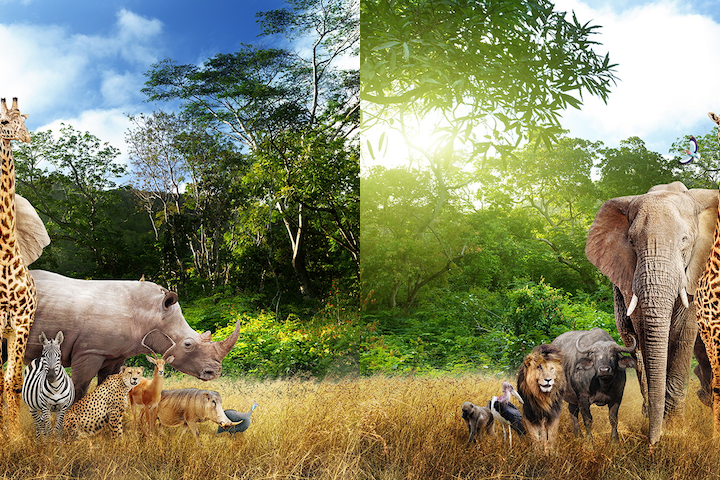
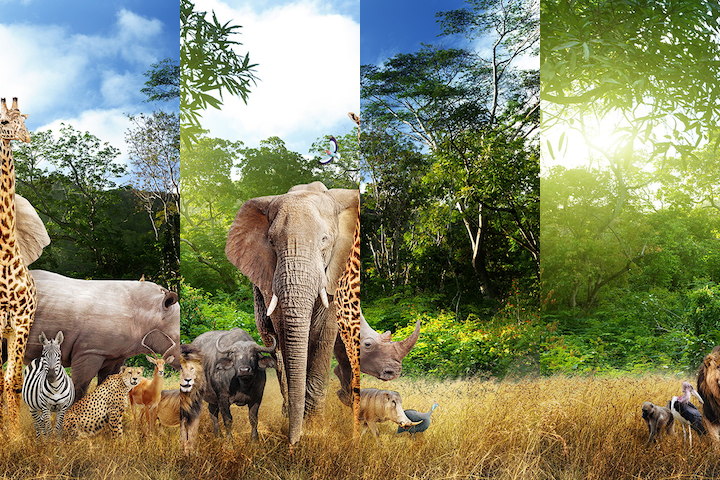
fatiador

diff --git a/9-fatiador/comparador.py b/9-fatiador/comparador.py
@@ -1,25 +1,82 @@
 import cv2
 import sys
+import numpy
 
 arquivo = sys.argv[1]
+tam = int(sys.argv[2])
+original = cv2.imread(arquivo, cv2.IMREAD_UNCHANGED)
 img = cv2.imread(arquivo, cv2.IMREAD_GRAYSCALE)
 
 largura = img.shape[1]
 altura = img.shape[0]
 
-meio = int(largura/2)
-dife, seme = 0, 0
+def eh_vizinho(f1, f2, ltr=True, threshold=80):
+  dife, seme = 0, 0
+  for i in range(altura):
+    if ltr:
+      p1 = f1[i, -1]
+      p2 = f2[i, 0]
+    else:
+      p1 = f1[i, 0]
+      p2 = f2[i, -1]
+    dif = abs(int(p1) - int(p2))
 
-print(meio, meio + 1)
-for i in range(altura):
-  p1 = img[i, meio - 1]
-  p2 = img[i, meio]
-  dif = abs(int(p1) - int(p2))
+    if dif > threshold:
+      dife += 1
+    else:
+      seme += 1
 
-  if dif > 80:
-    dife += 1
-  else:
-    seme += 1
+  return seme / altura
 
-porc = seme / altura
-print("dif:", dife, "sem:", seme, "taxa:", porc)
+fatias = int(largura / tam)
+neighbors = []
+
+for j in range(fatias):
+  f1 = j * tam
+  fat1 = img[0:altura, f1:f1 + tam]
+  sim = 0
+  nei = -1
+
+  for i in range(fatias):
+    f2 = i * tam
+    if f1 == f2:
+      continue
+
+    fat2 = img[0:altura, f2:f2 + tam]
+    porc = eh_vizinho(fat1, fat2, ltr=True, threshold=100)
+    tick = "<-" if porc > 0.85 else ""
+    if porc > 0.85:
+      if porc > sim:
+        sim = porc
+        nei = i
+    
+    print("[%d-%d](%d) and [%d-%d](%d): %.2f" % (f1, f1 + tam, j, f2, f2 + tam, i, porc))
+
+  neighbors.append((j, nei))
+  print("------------------------")
+
+print("ordenando fatias...")
+print("neighbors:", neighbors)
+last = -1
+ordered = []
+while len(neighbors) > len(ordered):
+  print("len 1:", len(neighbors), "len 2:", len(ordered))
+  for elm in neighbors:
+    if elm[1] == last:
+      ordered.append(elm)
+      last = elm[0]
+
+nova = numpy.ndarray((altura, largura, 3), numpy.uint8)
+
+atual = 0
+
+print("montando...")
+
+while len(ordered) > 0:
+  e = ordered.pop()
+  print(e[0] * tam, "-", e[0] * tam + tam, "->", atual, "-", atual + tam)
+
+  nova[0:altura, atual:atual + tam] = original[0:altura, e[0] * tam:e[0] * tam + tam]
+  atual = atual + tam
+
+cv2.imwrite("montada.png", nova)

diff --git a/9-fatiador/juntar.py b/9-fatiador/juntar.py
@@ -1,0 +1,66 @@
+import cv2
+import sys
+import numpy
+
+arquivo = sys.argv[1]
+tam = int(sys.argv[2])
+original = cv2.imread(arquivo, cv2.IMREAD_UNCHANGED)
+img = cv2.imread(arquivo, cv2.IMREAD_GRAYSCALE)
+
+largura = img.shape[1]
+altura = img.shape[0]
+
+def eh_vizinho(f1, f2, threshold=80):
+  seme = 0
+  for linha in range(altura):
+    p1 = int(f1[linha, -1]) #uint8
+    p2 = int(f2[linha, 0])  #uint8
+    dif = abs(p1 - p2)
+
+    if dif <= threshold:
+      seme += 1
+
+  return seme / altura
+
+fatias = int(largura / tam)
+vizinhos = []
+
+for j in range(fatias):
+  f1 = j * tam # onde começa fatia1 
+  fat1 = img[0:altura, f1:f1 + tam] # a fatia (imagem)
+  maior = 0 # maior percentual de semelhança
+  viz = -1 # no fim do próximo for, o vizinho da fatia2
+
+  for i in range(fatias):
+    f2 = i * tam # onde começa fatia2
+    if f1 == f2:
+      continue
+
+    fat2 = img[0:altura, f2:f2 + tam]
+    perc = eh_vizinho(fat1, fat2, threshold=90)
+
+    if perc > 0.85:
+      if perc > maior:
+        maior = perc
+        viz = i
+
+  vizinhos.append( (j, viz) )
+
+print("vizinhos:", vizinhos)
+
+ultimo = -1
+ordenada = []
+
+while len(vizinhos) > len(ordenada):
+  for elm in vizinhos:
+    if elm[1] == ultimo:
+      ordenada.append(elm)
+      ultimo = elm[0]
+
+nova = numpy.ndarray((altura, largura, 3), numpy.uint8)
+
+for atual in range(fatias):
+  e = ordenada.pop()
+  nova[0:altura, atual:atual + tam] = original[0:altura, e[0] * tam:e[0] * tam + tam]
+
+cv2.imwrite("montada.png", nova)
